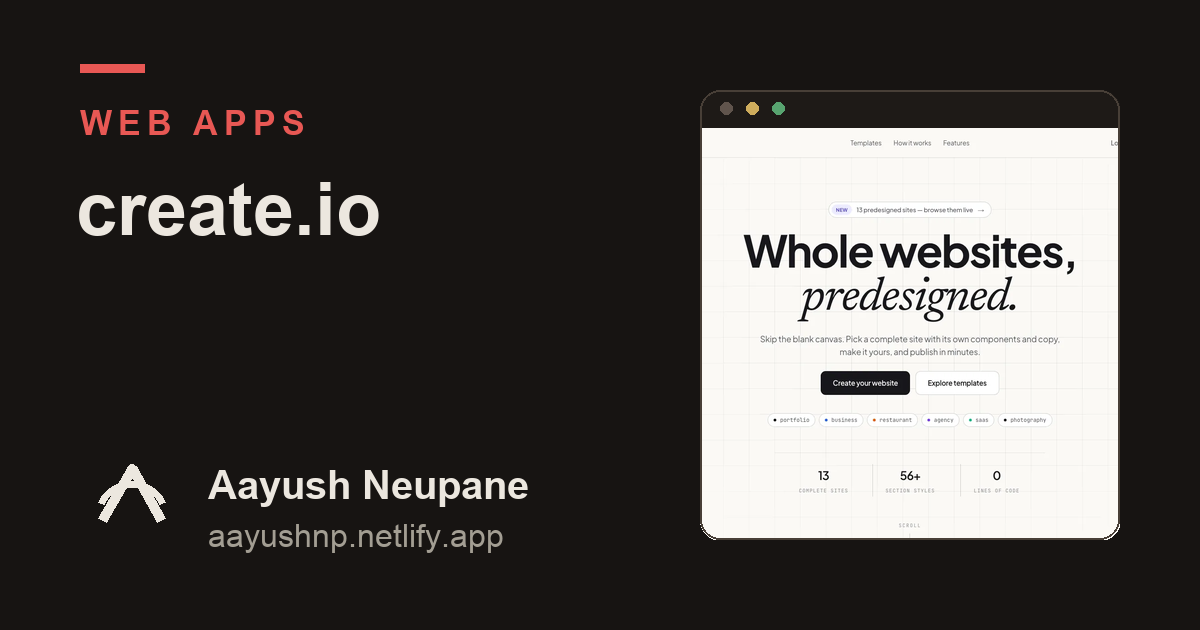
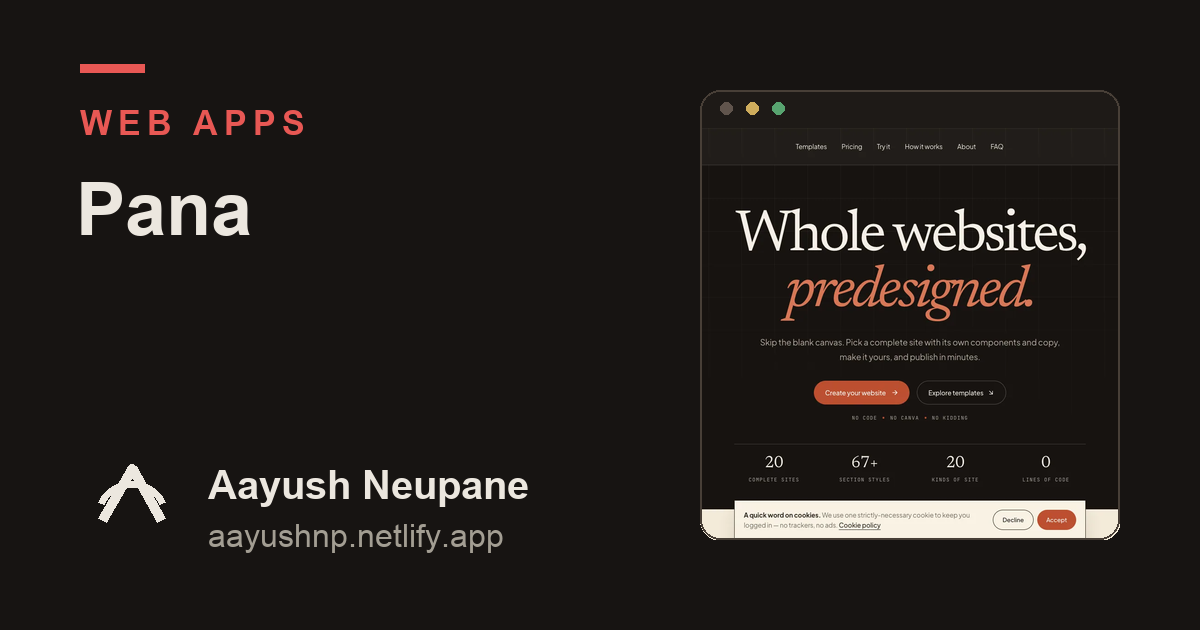
seo

Changed region(s): [[0.5858, 0.181, 0.9558, 0.8746], [0.0617, 0.2714, 0.3392, 0.3921]]

diff --git a/index.html b/index.html
@@ -49,17 +49,34 @@
   <script type="application/ld+json">
   {
     "@context": "https://schema.org",
-    "@type": "Person",
-    "name": "Aayush Neupane",
-    "jobTitle": "Web Developer & Game Developer",
-    "address": { "@type": "PostalAddress", "addressLocality": "Jhapa", "addressCountry": "NP" },
-    "url": "https://aayushnp.netlify.app/",
-    "sameAs": [
-      "https://github.com/aayush-neupane",
-      "https://www.linkedin.com/in/aayush-neupane-38a9b7240/",
-      "https://www.instagram.com/aayushh.np"
-    ],
-    "knowsAbout": ["React", "TypeScript", "Supabase", "Unity", "ESP32"]
+    "@graph": [
+      {
+        "@type": "Person",
+        "@id": "https://aayushnp.netlify.app/#person",
+        "name": "Aayush Neupane",
+        "jobTitle": "Web Developer & Game Developer",
+        "description": "Aayush Neupane builds websites and games from Jhapa, Nepal.",
+        "image": "https://aayushnp.netlify.app/assets/images/profile/logo.jpg",
+        "address": { "@type": "PostalAddress", "addressLocality": "Jhapa", "addressCountry": "NP" },
+        "url": "https://aayushnp.netlify.app/",
+        "sameAs": [
+          "https://github.com/aayush-neupane",
+          "https://www.linkedin.com/in/aayush-neupane-38a9b7240/",
+          "https://www.instagram.com/aayushh.np"
+        ],
+        "knowsAbout": ["React", "TypeScript", "Supabase", "Unity", "ESP32"]
+      },
+      {
+        "@type": "WebSite",
+        "@id": "https://aayushnp.netlify.app/#website",
+        "name": "Aayush Neupane",
+        "url": "https://aayushnp.netlify.app/",
+        "description": "Aayush Neupane builds websites and games from Jhapa, Nepal. React, TypeScript, Supabase, Unity.",
+        "inLanguage": "en",
+        "author": { "@id": "https://aayushnp.netlify.app/#person" },
+        "publisher": { "@id": "https://aayushnp.netlify.app/#person" }
+      }
+    ]
   }
   </script>
   <script>try { var t = localStorage.getItem('an-theme') || 'dark'; document.documentElement.classList.add(t === 'light' ? 'light' : 'dark'); var m = document.querySelector('meta[name="theme-color"]'); if (m) m.setAttribute('content', t === 'light' ? '#f1e7d1' : '#060709'); } catch (e) { document.documentElement.classList.add('dark'); }</script>
